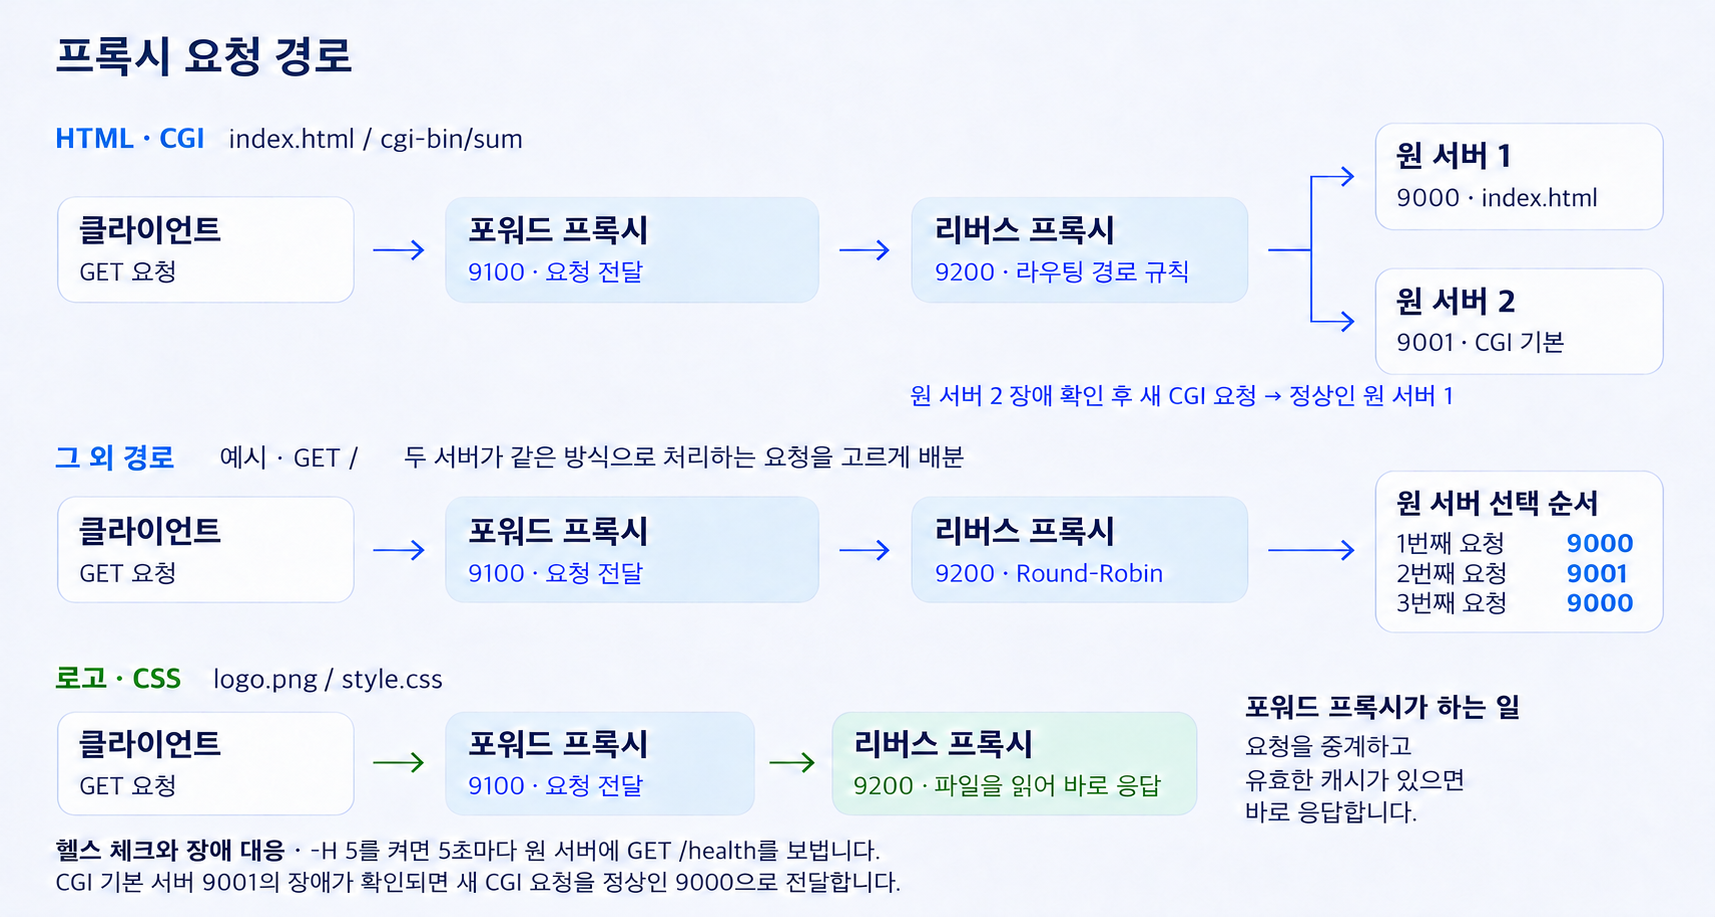
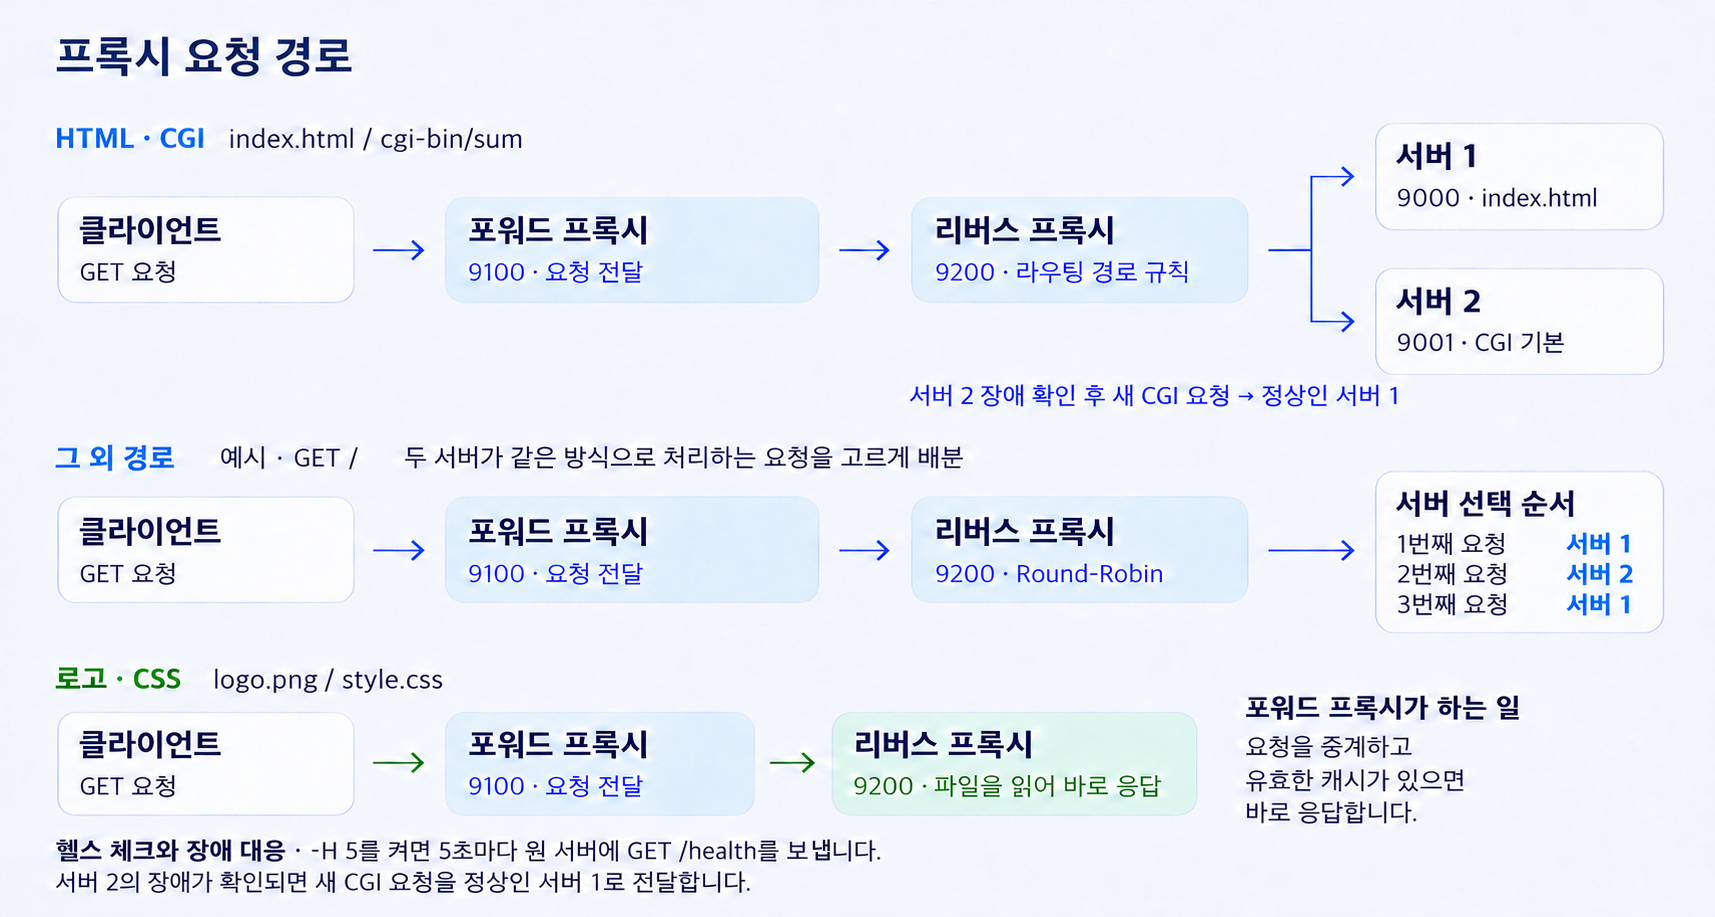
Update proxy routing diagram labels

diff --git a/README.md b/README.md
@@ -5,7 +5,7 @@ POSIX 소켓 API로 HTTP `GET`·`POST`를 처리하는 C 웹 서버를 만들었
 
 ## 포워드 프록시와 리버스 프록시
 
-![프록시 요청 경로. 로고와 CSS 요청은 포워드 9100을 거쳐 리버스 9200에서 응답합니다. HTML과 CGI 요청은 원 서버 9000과 9001로 전달됩니다.](docs/proxy-request-routes-horizontal.png?v=77bfa26)
+![프록시 요청 경로. 로고와 CSS 요청은 포워드 9100을 거쳐 리버스 9200에서 응답합니다. HTML과 CGI 요청은 서버 1과 서버 2로 전달됩니다.](docs/proxy-request-routes-horizontal.png?v=073ef94)
 
 ### 포워드 프록시 `9100`
 
